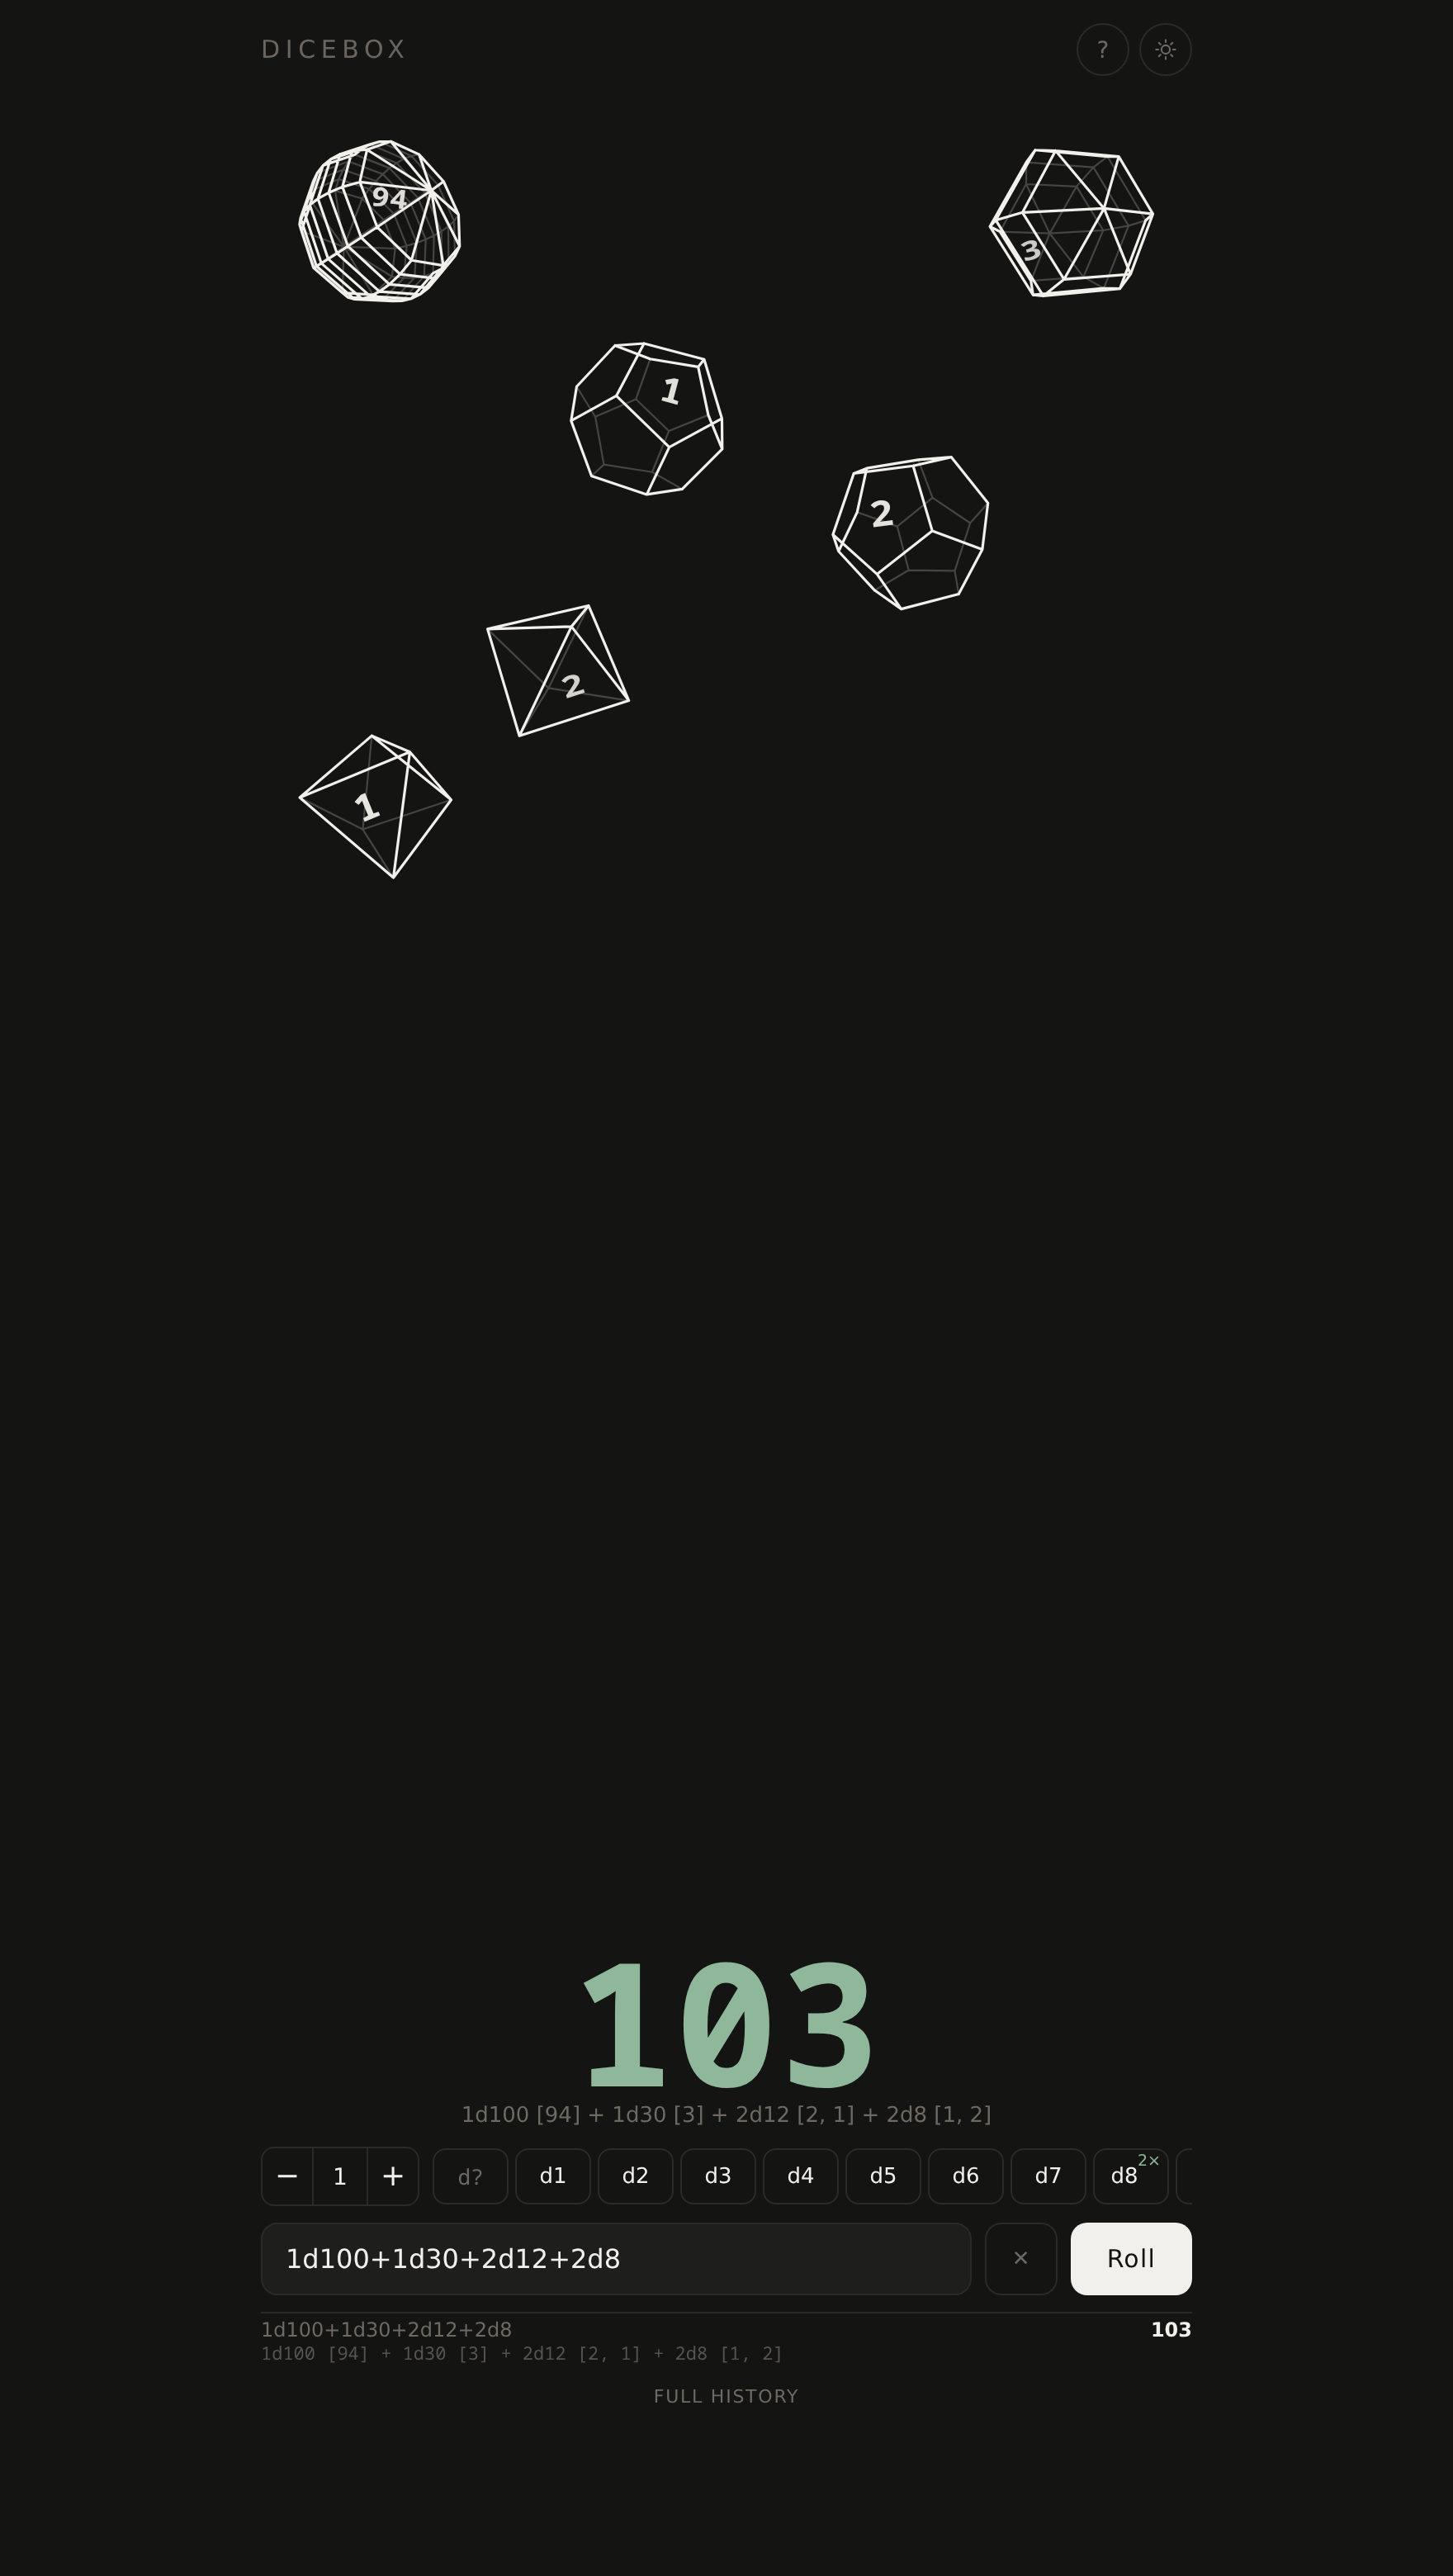
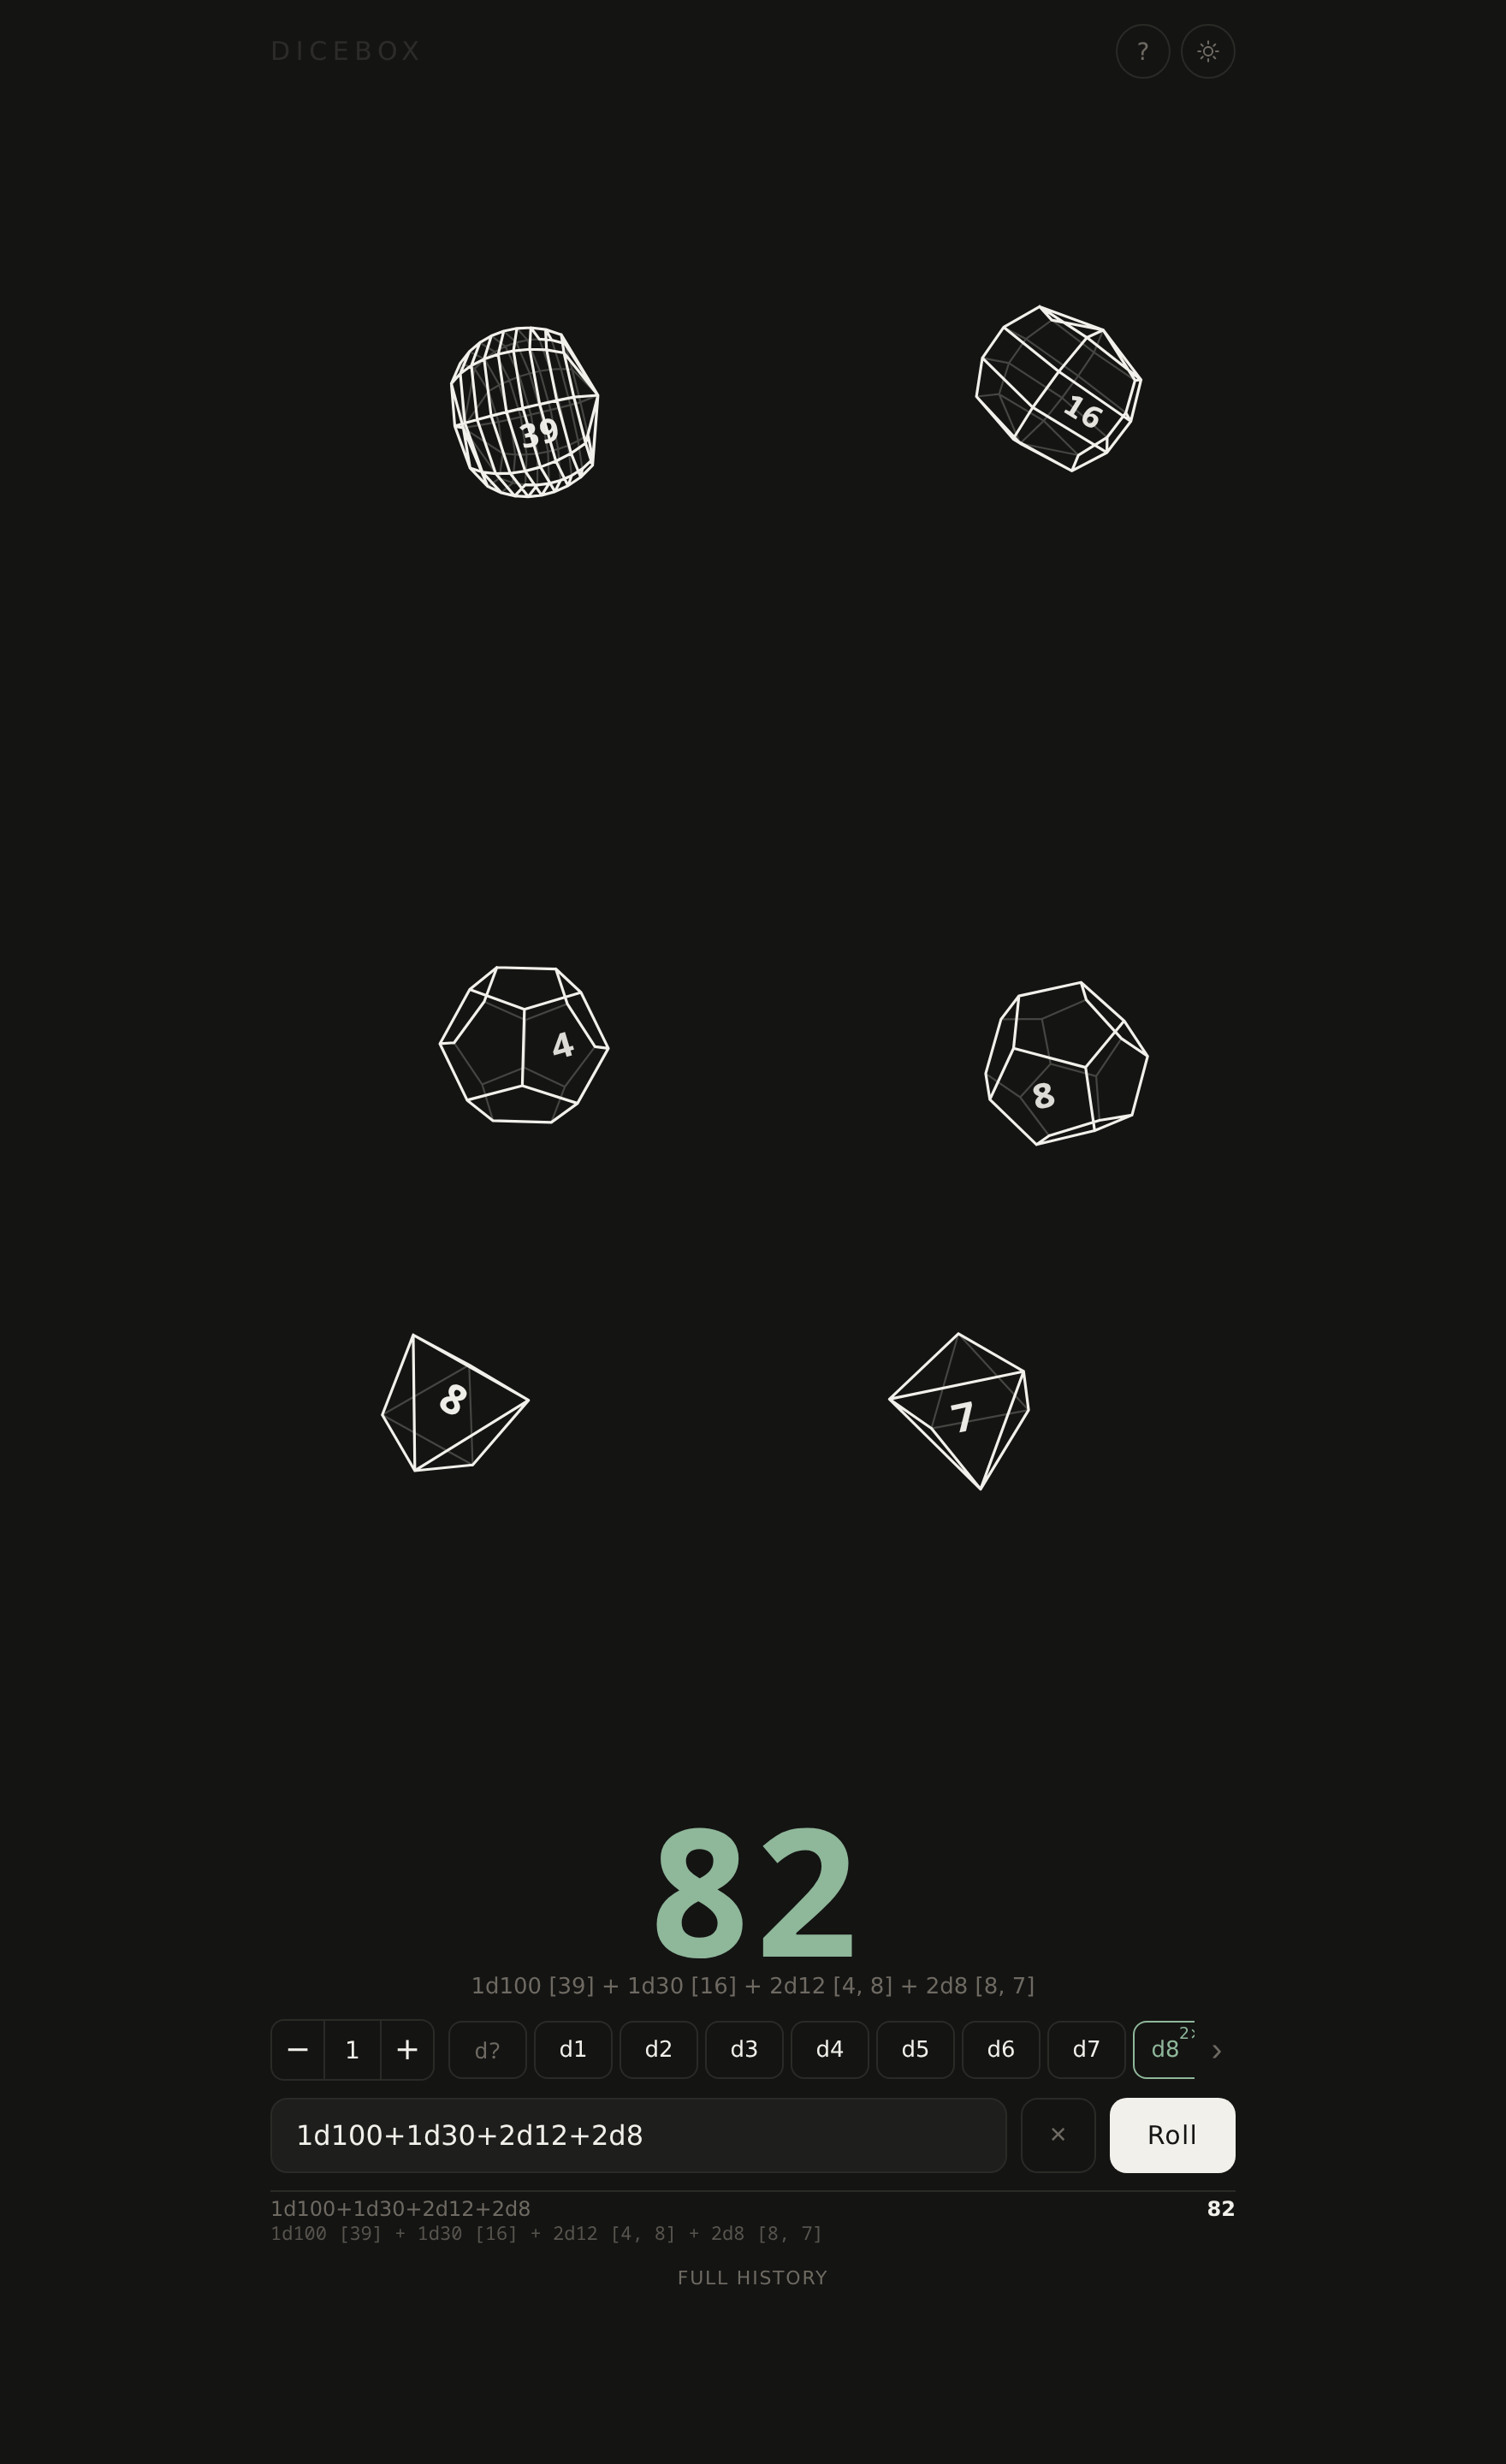
Add a modifier screenshot, and explain the constraints in the README
Screenshots now show the long-press sheet, which is the feature least
visible from a static image of the tray.

The panels sit toward the top of the tray rather than centred, which on
a desktop window left them stranded in a large empty field. The canvas
also stops drawing while a panel covers it: the dice keep simulating
underneath, but painting them wastes a frame on something nobody can
see.

Expands the randomness section into an account of what the app actually
does: why Math.random is not used, why a modulo would be subtly unfair
and what rejection sampling fixes, that the animation is a picture of an
already-decided outcome rather than a physics simulation that produces
it, and why dice past ~120 sides stop carrying one facet per side —
facets closer than a pixel stop reading as an object.

diff --git a/app.js b/app.js
@@ -1360,6 +1360,13 @@ function hideHint() {
 let prev = performance.now();
 let loopFaults = 0;
 
+// True while a panel covers the tray. The dice keep simulating underneath, but
+// drawing them wastes a frame on something nobody can see — and any translucency
+// in the panel would let them ghost through.
+function trayCovered() {
+  return !sheet.hidden || !dial.hidden || !historyPanel.hidden || !help.hidden;
+}
+
 function drawFrame(dt) {
   const t = theme();
   const r = canvas.getBoundingClientRect();
@@ -1393,6 +1400,11 @@ function drawFrame(dt) {
   if (state.dice.length > 1 && state.dice.length <= THROW_LIMIT) {
     separate(state.dice, state.bounds);
   }
+
+  // A panel covers the tray, so the dice have been stepped but there is nothing
+  // to show. Skipping the draw keeps them from ghosting through anything
+  // translucent and saves the frame.
+  if (trayCovered()) return;
 
   // Contact marks sit under the dice, so they draw first.
   state.surface.drawRests(ctx, t, state.dice);

diff --git a/style.css b/style.css
@@ -641,7 +641,7 @@ body {
   z-index: 3;
   display: flex;
   flex-direction: column;
-  justify-content: center;
+  justify-content: flex-start;
   overflow-y: auto;
   scrollbar-width: none;
   background: var(--paper);
@@ -652,6 +652,10 @@ body {
 .sheet-panel {
   width: 100%;
   padding: 2px;
+  /* Sits toward the top of a tall tray rather than floating in the middle of a
+     large empty field, which reads as stranded on a desktop window. */
+  margin-top: clamp(0px, 4vh, 28px);
+  margin-bottom: auto;
 }
 
 .sheet-title {

diff --git a/sw.js b/sw.js
@@ -2,7 +2,7 @@
 // precache all of them and never hit the network after install.
 
 // Bump on every asset change, or installed copies keep serving the old app.
-const CACHE = 'dicebox-v21';
+const CACHE = 'dicebox-v22';
 
 // './' only — never './index.html'. The edge redirects /index.html to / with a
 // 307, and a redirected response makes cache.addAll reject the whole batch,

diff --git a/README.md b/README.md
@@ -9,9 +9,15 @@ demo instance, not a service. To keep a copy of your own, see
 it from the browser, or host it yourself.
 
 <p align="center">
-  <img src="docs/roll.png" alt="Rolling 2d20+3d6, with the total and each die's result" width="360">
-  &nbsp;&nbsp;
-  <img src="docs/dark.png" alt="A mixed handful of d100, d30, d12 and d8 in dark mode" width="360">
+  <img src="docs/roll.png" alt="Rolling 2d20+3d6, with the total and each die's result" width="270">
+  &nbsp;
+  <img src="docs/modifiers.png" alt="Holding a die opens advantage, disadvantage, drop high or low, exploding and reroll" width="270">
+  &nbsp;
+  <img src="docs/dark.png" alt="A mixed handful of d100, d30, d12 and d8 in dark mode" width="270">
+</p>
+
+<p align="center">
+  <em>Tap dice to build a pool · hold one for modifiers · light and dark</em>
 </p>
 
 ## About
@@ -65,10 +71,53 @@ Sides are arbitrary from 1 to 10000, so Mothership's `d100`, DCC's `d14`/`d24`,
 and anything else all work. Dropped dice stay visible in parentheses rather than
 disappearing.
 
-## Randomness
+## How the rolls work
 
-`crypto.getRandomValues` with rejection sampling, so there's no modulo bias.
-`Math.random()` is not used anywhere in the roll path.
+Every die is decided by `crypto.getRandomValues`, the browser's cryptographic
+random source. `Math.random()` is not used anywhere in the roll path — it is a
+fast pseudo-random generator, seeded per page and predictable given enough
+output, which is fine for animation and wrong for the numbers.
+
+Turning random bytes into a die takes some care. Asking for a 32-bit number and
+taking `% 20` is the obvious approach and it is subtly unfair: 2³² does not
+divide evenly by 20, so the first few faces come up very slightly more often.
+Instead a value is drawn and **rejected** if it falls in the remainder at the
+top of the range, then drawn again. Every face ends up equally likely, and the
+loop almost always finishes on the first try.
+
+### The animation is a picture, not a physics engine
+
+The number is decided the instant you roll — before anything moves. What follows
+is a drawing of that outcome, not a simulation that produces it.
+
+The dice do tumble, bounce off the walls of the tray, push each other apart and
+settle showing a face, but none of it feeds back into the result. A die that
+lands showing 17 was already a 17. This is deliberate: a real physics simulation
+would make the outcome depend on frame timing, floating-point rounding and how
+hard you flicked, none of which are fair or reproducible. Watching the dice
+should be enjoyable; it should not be what decides the roll.
+
+The same goes for the tidying afterwards — dice drift into a sorted grid, group
+by type and order high to low. That is presentation.
+
+### Why a d100 does not have exactly 100 faces you can count
+
+Each die is drawn as a real solid whose face count matches its side count, up to
+a point. From d3 to d120 that holds for 108 of the 118 possible dice — a d17 has
+seventeen faces, a d100 has a hundred.
+
+Past that, the limit is your eyes rather than the maths. At the size a die is
+drawn on a phone, facets start landing closer together than a pixel, and the
+wireframe stops reading as an object and becomes a grey smudge. Dice above ~120
+sides therefore get a representative shape: still a distinct, consistent solid
+for that number, but no longer one facet per side. A d1000 drawn honestly would
+be a circle.
+
+Shape matters too, not just count. A trapezohedron — the classic d10 form — runs
+every facet to one of two points, so its edges converge and it is already
+crowded at 24 faces. A banded drum spreads its vertices evenly and stays
+countable past 120. That is why dice above 22 sides change family: not for
+decoration, but because it is the shape that survives being small.
 
 ## The roll log
 